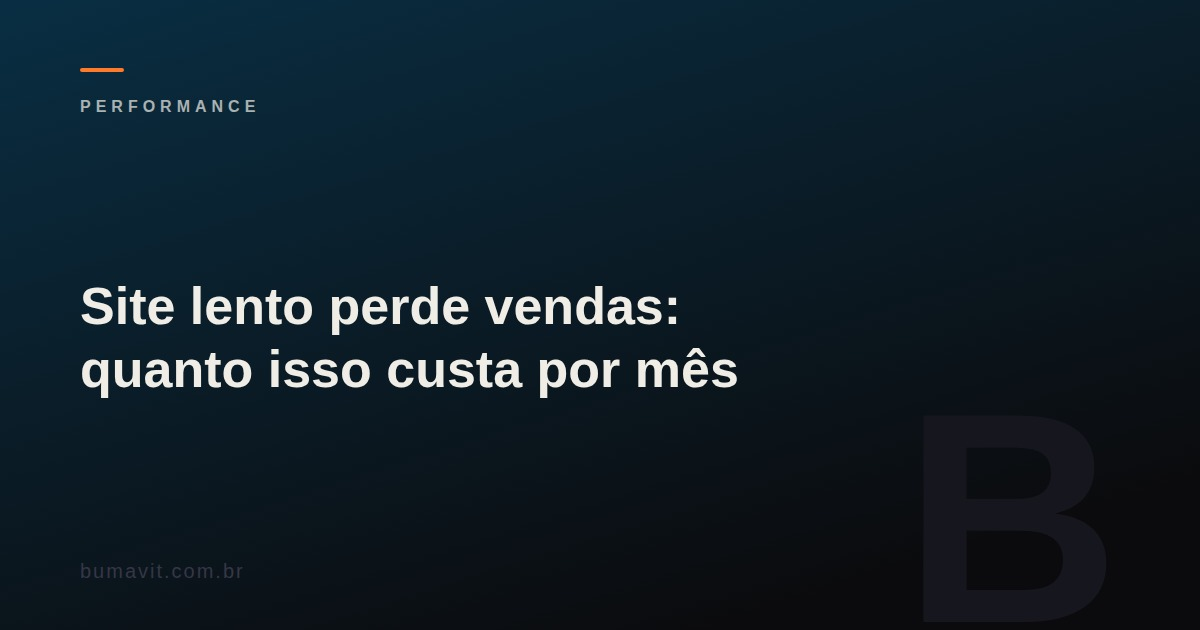
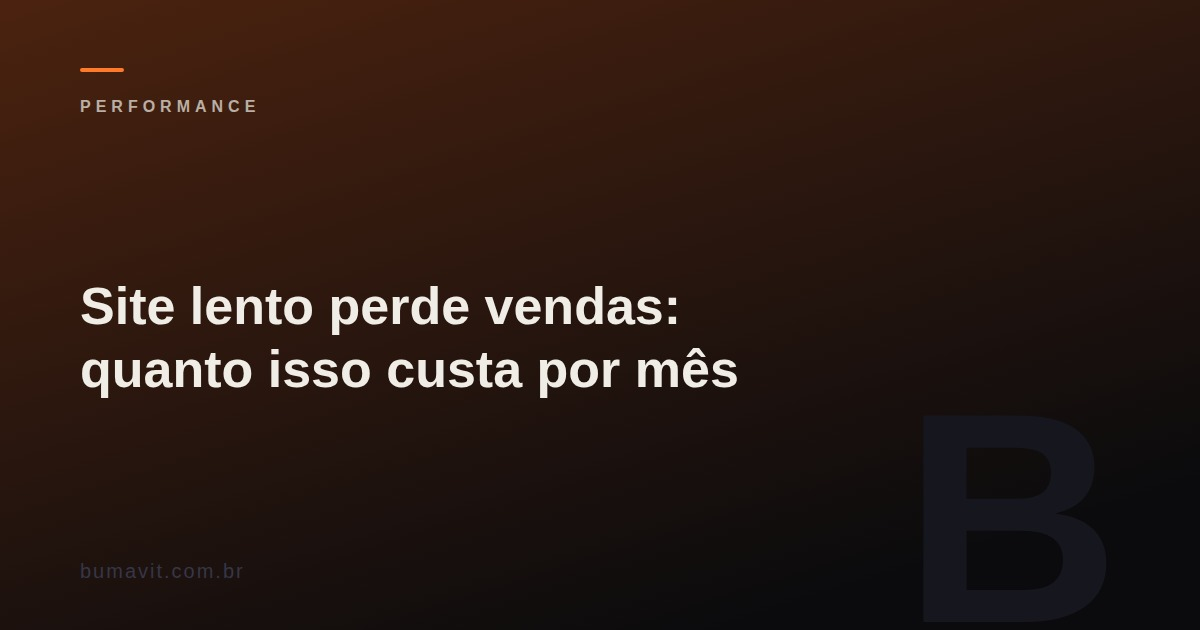
chore: rebuild blog HTML

diff --git a/blog/site-para-escritorio-de-contabilidade/index.html b/blog/site-para-escritorio-de-contabilidade/index.html
@@ -167,8 +167,8 @@
 <p>Uma página por segmento atendido produz mais resultado do que uma única página de "Serviços".</p>
 <p>A razão prática é o comportamento de busca: quando um empresário pesquisa "contabilidade para e-commerce Rio de Janeiro", o Google entrega uma página específica para esse segmento — não uma página genérica que menciona e-commerce em um bullet. O escritório com a página `/contabilidade-para-ecommerce/` aparece; o que não tem, não aparece.</p>
 <p>A razão de conversão é igualmente direta: o cliente chega em uma página que trata exatamente da situação dele. O texto pode nomear os problemas do setor, os regimes tributários aplicáveis e as dúvidas que chegam com mais frequência. O argumento é mais fácil de avaliar porque é específico.</p>
-<p>Segmentos com volume suficiente para uma página dedicada em um escritório de pequeno ou médio porte: comércio varejista, prestadores de serviço, clínicas e consultórios, imobiliárias e construtoras, e-commerce. A lógica é a mesma que funciona para outros profissionais de serviço — em <a href="/blog/site-para-clinica-odontologica/">sites para clínicas odontológicas</a>, o mesmo princípio aumenta a conversão de visitas em consultas.</p>
-<p>Para ser encontrado em buscas locais, cada uma dessas páginas precisa de um trabalho básico de <a href="/blog/seo-local/">SEO local</a> — consistência de nome, endereço e telefone, e uma presença ativa no Google Business Profile do escritório.</p>
+<p>Segmentos com volume suficiente para uma página dedicada em um escritório de pequeno ou médio porte: comércio varejista, prestadores de serviço, clínicas e consultórios, imobiliárias e construtoras, e-commerce. A lógica é a mesma que funciona para outros profissionais de serviço — em <a href="https://bumavit.com.br/blog/site-para-clinica-odontologica/">sites para clínicas odontológicas</a>, o mesmo princípio aumenta a conversão de visitas em consultas.</p>
+<p>Para ser encontrado em buscas locais, cada uma dessas páginas precisa de um trabalho básico de <a href="https://bumavit.com.br/blog/seo-local/">SEO local</a> — consistência de nome, endereço e telefone, e uma presença ativa no Google Business Profile do escritório.</p>
 <h2>Abertura de empresa como porta de entrada</h2>
 <p>A busca de maior intenção que um escritório contábil pode capturar é de alguém que está abrindo uma empresa e precisa de contador. Esse visitante chegou com urgência e um problema específico — tem prazo, tem dúvidas concretas, e está comparando opções ativamente.</p>
 <p>Uma página dedicada a esse serviço — processo de abertura, documentação necessária, prazo estimado, tipos de regime tributário disponíveis — costuma ser a página de maior conversão no site contábil, porque responde a um problema imediato.</p>
@@ -181,7 +181,7 @@
 <p>Uma área restrita para troca de documentos e comunicação transforma o site de brochure em ferramenta de trabalho.</p>
 <p>O investimento se justifica quando o volume de clientes gera atrito relevante no fluxo atual de arquivos — dezenas de clientes enviando documentos por e-mail, WhatsApp e ferramentas de nuvem diferentes, sem rastreamento. Abaixo desse volume, o ganho operacional pode não compensar o custo de implementação inicial.</p>
 <p>Se o escritório usa um sistema de gestão contábil que já tem portal do cliente nativo, a integração com o site é frequentemente mais simples do que desenvolver uma área do zero. Vale mapear o que já existe no sistema atual antes de especificar qualquer desenvolvimento.</p>
-<p>O escopo e o custo de um projeto assim variam bastante — a diferença entre um site institucional simples e um com portal integrado está explicada em <a href="/blog/quanto-custa-um-site-institucional/">Quanto custa um site institucional</a>. Para uma estimativa rápida do que se aplica ao caso concreto do escritório, o <a href="/estimador.html">estimador de projetos</a> chega a uma referência em três perguntas.</p>
+<p>O escopo e o custo de um projeto assim variam bastante — a diferença entre um site institucional simples e um com portal integrado está explicada em <a href="https://bumavit.com.br/blog/quanto-custa-um-site-institucional/">Quanto custa um site institucional</a>. Para uma estimativa rápida do que se aplica ao caso concreto do escritório, o <a href="https://bumavit.com.br/estimador.html">estimador de projetos</a> chega a uma referência em três perguntas.</p>
 <h2>LGPD e dados de clientes</h2>
 <p>Um site que coleta dados — formulário de contato, área restrita, e-mail — está sujeito às obrigações da Lei Geral de Proteção de Dados. Para um escritório de contabilidade, que lida com informações financeiras e fiscais sensíveis, essa responsabilidade não é menor por ser digital.</p>
 <p>As obrigações incluem política de privacidade publicada, registro dos dados coletados e da finalidade do processamento, e mecanismo de exclusão a pedido do titular. <strong>Esta não é uma orientação jurídica</strong> — qualquer dúvida sobre adequação deve ser tratada com um advogado especializado em LGPD. O ponto aqui é de alinhamento: um escritório que orienta clientes sobre obrigações fiscais ganha credibilidade ao demonstrar que trata as próprias obrigações de dados com o mesmo rigor.</p>
@@ -189,7 +189,7 @@
 <p>Um escritório que tem postergado a reformulação do site não precisa resolver tudo de uma vez.</p>
 <p>O passo de maior impacto com o menor escopo: <strong>uma página por segmento atendido, com um profissional nomeado e o seu registro, e um canal de contato com prazo de resposta declarado</strong>.</p>
 <p>Isso já diferencia o escritório de concorrentes que listam serviços em texto corrido — e é a base para o que vem depois: abertura de empresa, área do cliente, conteúdo.</p>
-<p>Para entender o custo e o escopo de um site assim, o <a href="/estimador.html">estimador de projetos</a> chega a uma estimativa em três perguntas. Um exemplo de site institucional para setor de serviços desenvolvido pela Bumavit está no <a href="/projetos/cocban.html">portfólio do Cocban</a>.</p>
+<p>Para entender o custo e o escopo de um site assim, o <a href="https://bumavit.com.br/estimador.html">estimador de projetos</a> chega a uma estimativa em três perguntas. Um exemplo de site institucional para setor de serviços desenvolvido pela Bumavit está no <a href="https://bumavit.com.br/projetos/cocban.html">portfólio do Cocban</a>.</p>
       </div>
 
       <div class="bshare" data-reveal>

diff --git a/blog/site-lento-perde-vendas/index.html b/blog/site-lento-perde-vendas/index.html
@@ -139,17 +139,16 @@
       <h1 class="p-hero__title bpost__title" data-split>Site lento perde vendas: quanto isso custa por mês</h1>
       <p class="bpost__meta" data-reveal>22 Out 2026 · <span class="bmin" data-min="6">6 min de leitura</span> · Bumavit</p>
 
-      <div class="bcov cover--cyan bpost__cover bpost__cover--has-img" data-reveal>
+      <div class="bcov cover--rust bpost__cover bpost__cover--has-img" data-reveal>
         <img src="../../images/posts/site-lento-perde-vendas-card.svg" alt="Site lento perde vendas: quanto isso custa por mês" width="1200" height="900" class="bpost__card-img" loading="lazy">
       </div>
 
       <div class="article__body bpost__body" data-reveal>
-<p># Site lento perde vendas: quanto isso custa por mês</p>
 <p>Site lento perde venda. É o problema mais barato de resolver e o mais ignorado.</p>
 <p>Enquanto você investe em anúncio, post e indicação, o visitante chega no seu site, espera três ou quatro segundos e vai embora. Ele não viu seu preço, não leu sua proposta, não pediu orçamento. Foi embora antes de qualquer coisa.</p>
 <p>Isso acontece todo dia em sites de pequenas empresas. A maioria dos donos não sabe que está acontecendo — o site parece normal quando você abre do computador do escritório, mas o cliente de celular na rua vive outra experiência.</p>
 <h2>Por que o visitante sai antes de ver o que você vende</h2>
-<p>O Google publicou dados mostrando que a probabilidade de abandono aumenta 32% quando o carregamento vai de 1 segundo para 3 segundos. Depois de 5 segundos, esse número passa de 90%.</p>
+<p>Um estudo do próprio Google sobre velocidade no celular (<a href="https://www.thinkwithgoogle.com/marketing-strategies/app-and-mobile/mobile-page-speed-new-industry-benchmarks/">Think with Google, 2017</a>) mediu que a probabilidade de abandono aumenta 32% quando o carregamento vai de 1 segundo para 3 segundos, e 90% quando vai de 1 para 5 segundos.</p>
 <p>Isso não é sobre paciência do visitante. É sobre atenção. A pessoa que clicou no seu anúncio ou no seu link do Instagram está em movimento, entre uma coisa e outra. Ela não vai esperar.</p>
 <p>O pior: você pagou para trazer esse visitante. Seja com dinheiro em Google Ads, seja com tempo escrevendo conteúdo, seja com anos construindo reputação para receber indicações. O site lento desperdiça esse investimento antes de o visitante ver uma palavra sequer do que você oferece.</p>
 <h2>Como saber se o seu site está lento</h2>
@@ -172,7 +171,7 @@
 <h2>Quanto custa esse problema por mês</h2>
 <p>Não existe fórmula única, porque depende do seu tráfego e da sua taxa de conversão atual. Mas dá para raciocinar de forma prática.</p>
 <p>Se o seu site recebe 500 visitas por mês e converte 2% em contatos, você tem 10 contatos. Se a lentidão faz metade dos visitantes abandonar antes de interagir, você está operando como se tivesse 250 visitas — ou seja, 5 contatos, não 10.</p>
-<p>Quantos desses 5 contatos perdidos virariam negócio? Se apenas um fechasse, e seu ticket médio for R$ 2.000, o site lento está custando R$ 2.000 por mês. Todos os meses. Sem que apareça em nenhuma conta.</p>
+<p>Quantos desses 5 contatos perdidos virariam negócio? Se apenas um fechasse, o site lento estaria custando um contrato por mês. Todos os meses. Sem que apareça em nenhuma conta.</p>
 <p>Isso sem contar o dinheiro gasto em tráfego pago para trazer visitantes que o site descartou antes de eles lerem uma linha.</p>
 <h2>O que você pode resolver agora sem mexer no código</h2>
 <p>Antes de falar em refazer o site, há ações que você mesmo pode tomar:</p>

diff --git a/blog/site-para-clinica-odontologica/index.html b/blog/site-para-clinica-odontologica/index.html
@@ -188,7 +188,7 @@
 <p><strong>O site parece igual ao de todo mundo.</strong> O template é o mesmo para todas as clínicas que usam aquele sistema. Um paciente que abre dois sites do mesmo software vê o mesmo layout com nomes diferentes. Não existe diferenciação possível dentro do template.</p>
 <p><strong>As limitações de personalização são reais.</strong> Não é possível criar páginas de especialidade otimizadas para buscas específicas, adaptar o fluxo de agendamento ao processo da clínica, ou integrar com canais externos. O que o sistema permite é o que você tem.</p>
 <p>Para uma clínica que está abrindo e precisa de algo no ar rapidamente, o template faz sentido como solução temporária. Para quem quer que o site contribua ativamente com a captação de pacientes, o site próprio com estrutura adaptada entrega resultados que o template não consegue.</p>
-<p>Um exemplo de site institucional desenvolvido sob medida está no <a href="/projetos/cocban.html">portfólio da Bumavit</a>. Para entender o que custa um site profissional para clínicas e outros segmentos, <a href="https://bumavit.com.br/blog/quanto-custa-um-site-institucional/">este post detalha as faixas de preço</a>. Se você está comparando propostas de fornecedores, <a href="https://bumavit.com.br/blog/como-escolher-uma-agencia-de-criacao-de-sites/">estes sete critérios ajudam a separar boas propostas das ruins</a>.</p>
+<p>Um exemplo de site institucional desenvolvido sob medida está no <a href="https://bumavit.com.br/projetos/cocban.html">portfólio da Bumavit</a>. Para entender o que custa um site profissional para clínicas e outros segmentos, <a href="https://bumavit.com.br/blog/quanto-custa-um-site-institucional/">este post detalha as faixas de preço</a>. Se você está comparando propostas de fornecedores, <a href="https://bumavit.com.br/blog/como-escolher-uma-agencia-de-criacao-de-sites/">estes sete critérios ajudam a separar boas propostas das ruins</a>.</p>
 <h2>O que fazer esta semana</h2>
 <p>Antes de redesenhar o site inteiro, três ajustes de impacto imediato:</p>
 <p><strong>1. Publique a lista de convênios.</strong> Se o site não mostra quais planos são aceitos, esse é o ajuste mais urgente e mais simples. Uma seção na página inicial com os logos dos convênios ou uma lista por extenso resolve em horas e impacta imediatamente quem chega pelo Google.</p>

diff --git a/blog/index.html b/blog/index.html
@@ -125,7 +125,7 @@
 
     <section class="section" style="padding-top:0;">
       <a class="bfeat" href="site-lento-perde-vendas/" data-hover data-reveal>
-        <div class="bcov cover--cyan bfeat__cover">
+        <div class="bcov cover--rust bfeat__cover">
           <span class="bcov__mono" aria-hidden="true">S</span>
           <span class="bcat" data-c="performance">Performance</span>
         </div>
@@ -147,7 +147,7 @@
       <div class="bgrid" id="bgrid">
 
         <a class="bcard" href="site-lento-perde-vendas/" data-cat="performance" data-hover>
-          <div class="bcov cover--cyan bcard__cover">
+          <div class="bcov cover--rust bcard__cover">
             <span class="bcov__mono" aria-hidden="true">S</span>
             <span class="bcat" data-c="performance">Performance</span>
           </div>

diff --git a/blog/core-web-vitals/index.html b/blog/core-web-vitals/index.html
@@ -180,7 +180,7 @@
         <div class="bgrid bgrid--related">
 
         <a class="bcard" href="../site-lento-perde-vendas/" data-cat="performance" data-hover>
-          <div class="bcov cover--cyan bcard__cover">
+          <div class="bcov cover--rust bcard__cover">
             <span class="bcov__mono" aria-hidden="true">S</span>
             <span class="bcat" data-c="performance">Performance</span>
           </div>

diff --git a/blog/seo-local/index.html b/blog/seo-local/index.html
@@ -184,7 +184,7 @@
         <div class="bgrid bgrid--related">
 
         <a class="bcard" href="../site-lento-perde-vendas/" data-cat="performance" data-hover>
-          <div class="bcov cover--cyan bcard__cover">
+          <div class="bcov cover--rust bcard__cover">
             <span class="bcov__mono" aria-hidden="true">S</span>
             <span class="bcat" data-c="performance">Performance</span>
           </div>
